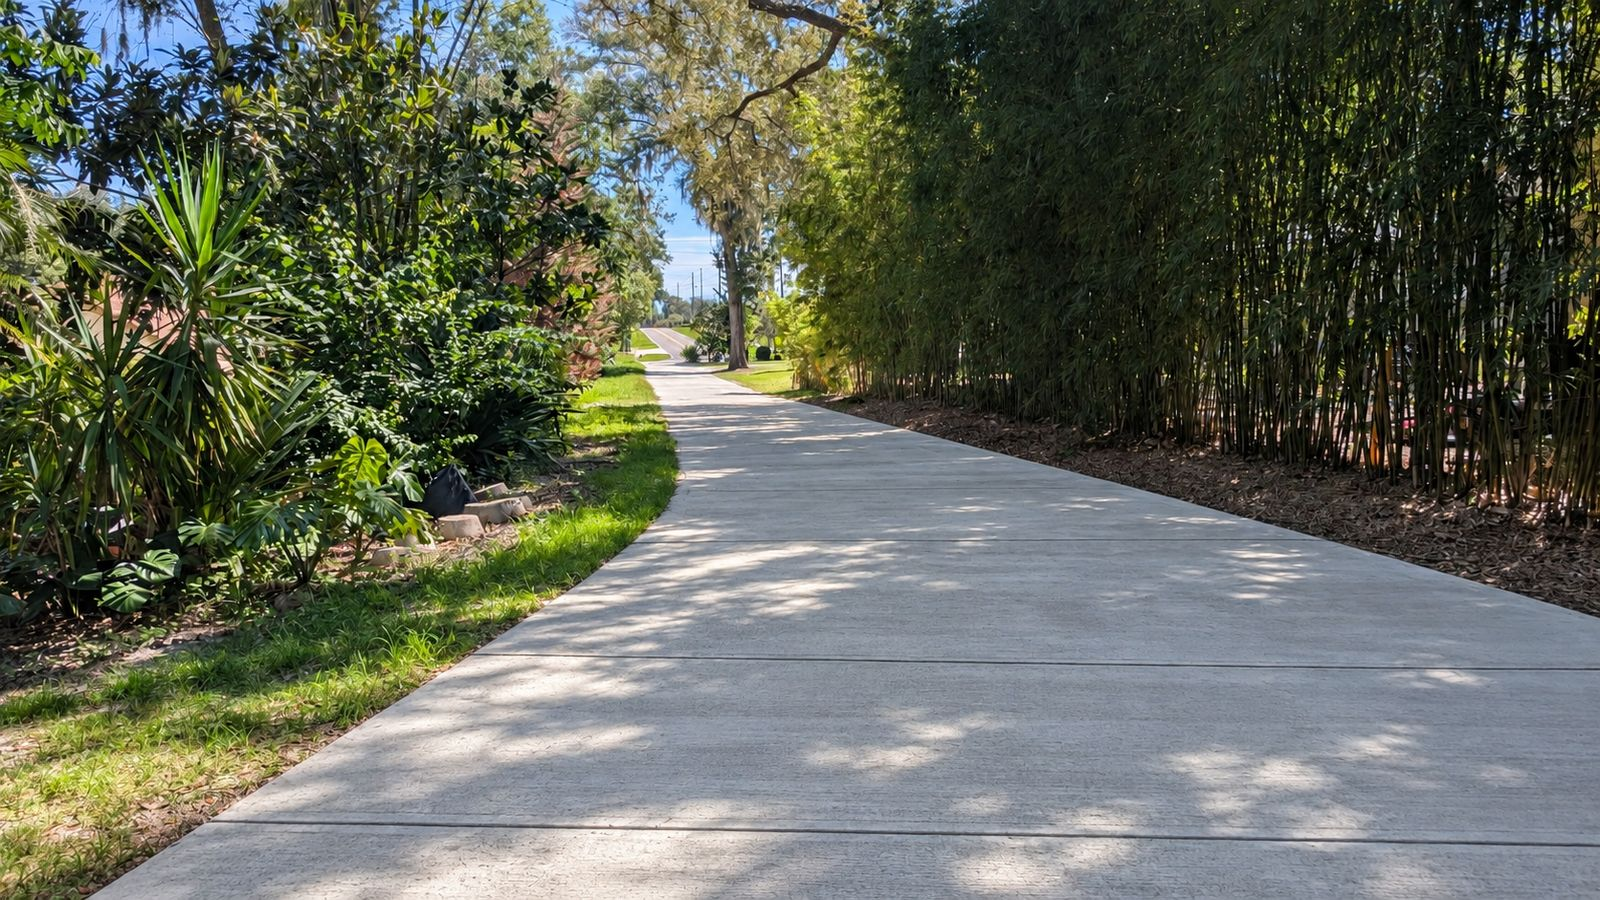
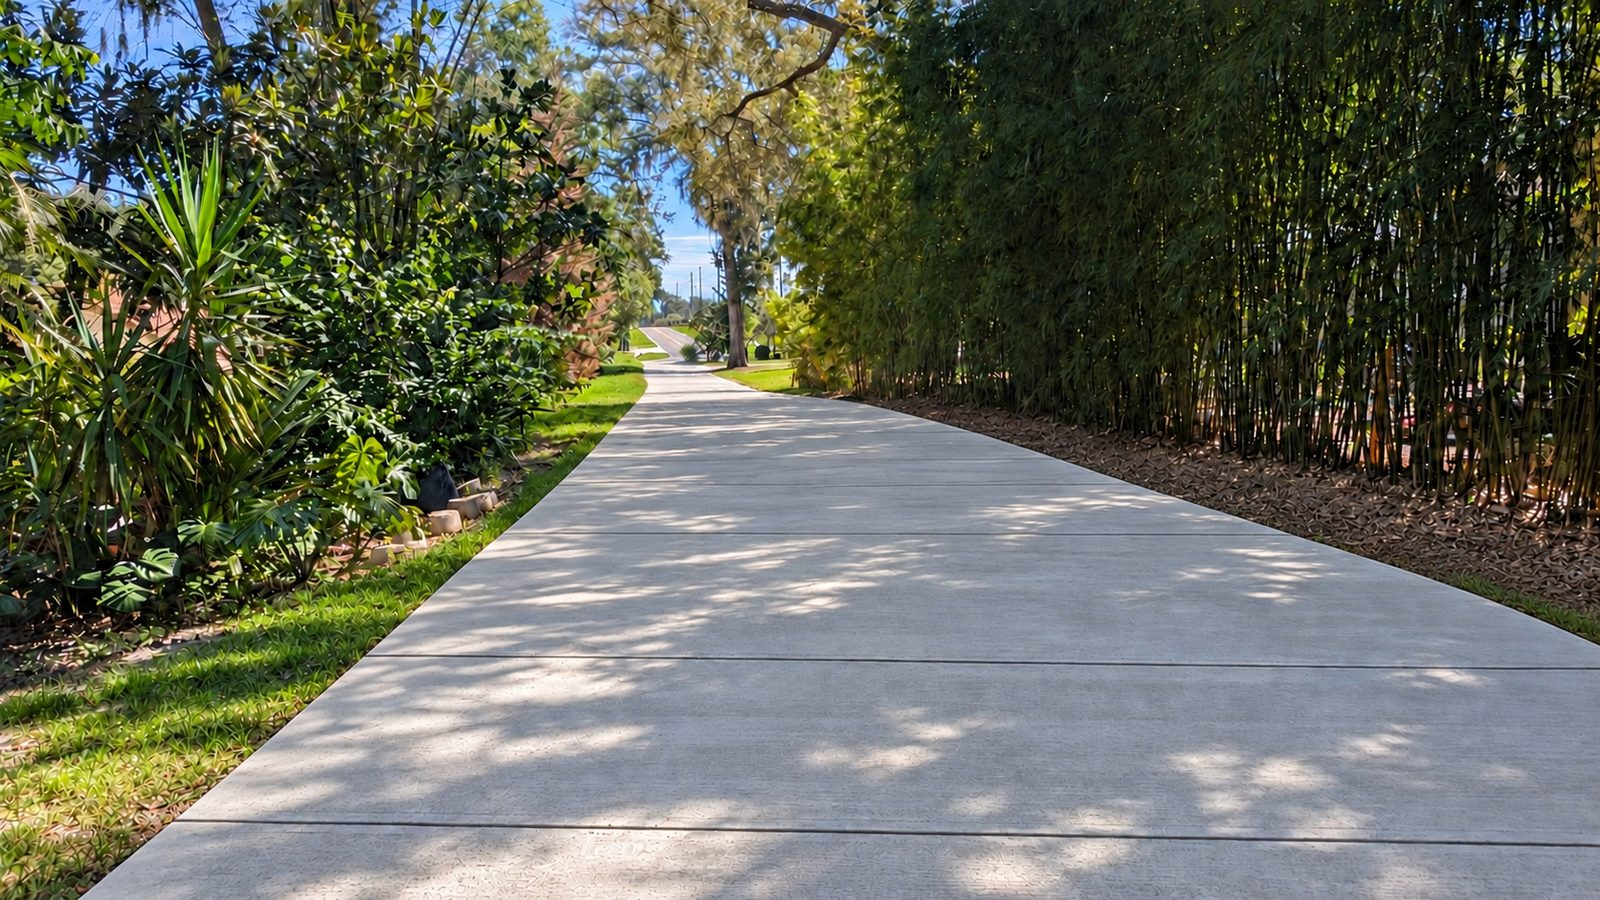
Swap the pull-off for the wide section and show a 16 ft road
Replace the pull-off section (and its photos) with "A wide section",
showing the ground-level and top-down wide-section photos. "The whole
stretch" now uses the new wider-road photo, which lines up with the
existing "today" photo so the slider still works. The width label and
the shared-road note say 16 ft; the cost estimate's area is unchanged.

Uploaded PNGs are resized to 1600x900 JPEGs like the rest of the site
(originals stay in git history).

Claude-Session: https://claude.ai/code/session_01KxngpR1unhE74uWLYUnd1P

diff --git a/index.html b/index.html
@@ -72,18 +72,13 @@ header{display:grid;gap:16px}
 .cmp:has(input:focus-visible){outline:3px solid var(--oak);outline-offset:3px}
 
 .view{display:grid;gap:14px}
-.view-head{display:flex;flex-wrap:wrap;align-items:baseline;justify-content:space-between;gap:6px 16px}
 .view p{color:var(--muted)}
 .gallery{display:grid;gap:48px}
-.opts{display:inline-flex;gap:4px;padding:4px;border:1px solid var(--line);border-radius:6px;background:var(--panel)}
-.opts button{font:600 .95rem var(--display);letter-spacing:.08em;text-transform:uppercase;border:0;background:transparent;color:var(--muted);padding:6px 14px;border-radius:4px;cursor:pointer}
-.opts button[aria-pressed="true"]{background:var(--oak);color:var(--oak-ink)}
-.opts button:focus-visible{outline:2px solid var(--oak);outline-offset:2px}
 
 .hint{font-size:.9rem;color:var(--muted)}
 
-/* road sections + pull-off */
-.road,.pulloff{display:grid;gap:24px}
+/* road sections */
+.road{display:grid;gap:24px}
 img.shot{display:block;width:100%;height:auto;aspect-ratio:16/9;object-fit:cover;border-radius:6px;background:var(--line)}
 
 /* why + split */
@@ -176,7 +171,7 @@ footer{color:var(--muted);font-size:.88rem;border-top:1px solid var(--line);padd
       </article>
       <article class="view">
         <h3>Interior road</h3>
-        <div data-view="interior" data-title="Interior road" data-dim="606 1262 500" data-dim-label="12 ft wide"></div>
+        <div data-view="interior" data-title="Interior road" data-dim="606 1262 500" data-dim-label="16 ft wide"></div>
         <p class="cap">The straight run through the trees, paved edge to edge.</p>
       </article>
     </div>
@@ -218,22 +213,22 @@ footer{color:var(--muted);font-size:.88rem;border-top:1px solid var(--line);padd
     <div data-view="long-road" data-title="The whole stretch"></div>
   </section>
 
-  <section class="pulloff" aria-labelledby="po-h">
+  <section class="road" aria-labelledby="wide-h">
     <div class="split-head">
-      <div class="eyebrow">Pull-off</div>
-      <h2 id="po-h">Room to pass</h2>
-      <p class="muted">The road is about 12 ft wide, room for one car at a time. A pull-off is a short, wider stretch where one car can wait while another goes by. There are two places it could go.</p>
+      <div class="eyebrow">Room to pass</div>
+      <h2 id="wide-h">A wide section</h2>
+      <p class="muted">A stretch where the road widens, with room for two cars side by side.</p>
     </div>
     <div class="gallery">
       <article class="view">
-        <div class="view-head"><h3>From above</h3></div>
-        <img class="shot" src="img/pull-off/overhead.jpg" alt="Overhead view of the concrete road widened into a pull-off, with a pickup truck and an SUV side by side" loading="lazy">
-        <p class="cap">The wider section fits two cars side by side.</p>
+        <h3>Along the road</h3>
+        <img class="shot" src="img/wide-section.jpg" alt="Concrete road widening on both sides into a wide section, with the road to Hempel Ave beyond" loading="lazy">
+        <p class="cap">Looking toward Hempel Ave, the road widens on both sides and then narrows back to the regular lane.</p>
       </article>
-      <article class="view" id="pulloff">
-        <div class="view-head"><h3>Where it could go</h3><div class="opts" role="group" aria-label="Pull-off location"><button type="button" data-k="a" aria-pressed="true">Option A</button><button type="button" data-k="b" aria-pressed="false">Option B</button></div></div>
-        <img class="shot" src="img/pull-off/option-a.jpg" alt="Concrete road near the street, widened on the right into a pull-off" loading="lazy">
-        <p class="cap">By the street, near the Hempel Ave end of the road.</p>
+      <article class="view">
+        <h3>From above</h3>
+        <img class="shot" src="img/wide-section-top.jpg" alt="Overhead view of the wide section with a pickup truck and an SUV side by side" loading="lazy">
+        <p class="cap">The same idea from above, with a pickup and an SUV side by side.</p>
       </article>
     </div>
   </section>
@@ -282,7 +277,7 @@ footer{color:var(--muted);font-size:.88rem;border-top:1px solid var(--line);padd
           <div class="field"><label for="aShared">Shared road (sq ft)</label><input id="aShared" inputmode="numeric" value="4,200" autocomplete="off"></div>
         </div>
         <p class="note"><b>These are estimates, not quotes.</b> $11 per sq ft is the middle of the $10 to $13 Orlando range for 4 inch, fiber reinforced, broom finish concrete. Fixed costs cover things that are paid once per job: mobilization, permit, equipment and a pump truck if needed.</p>
-        <p class="note">Shared road: 335 ft long by about 12 ft wide, plus the apron at Hempel.</p>
+        <p class="note">Shared road: 335 ft long by about 16 ft wide, plus the apron at Hempel.</p>
         <p class="note">The whole cost, fixed costs included, is split by road use. Distances are scaled from the recorded survey of 1830 Hempel and match a Google Maps measurement within a few inches.</p>
       </div>
       <div class="table-wrap">
@@ -360,15 +355,6 @@ document.querySelectorAll("[data-view]").forEach(el=>{
   el.innerHTML=cmpHTML(`img/${v}-before.jpg`,`img/${v}-after.jpg`,el.dataset.title,el.dataset.dim,el.dataset.dimLabel);
   wire(el.querySelector(".cmp"));
 });
-const PULLOFF={a:{text:"By the street, near the Hempel Ave end of the road.",alt:"Concrete road near the street, widened on the right into a pull-off"},
-  b:{text:"By 1820, farther in from the street.",alt:"Concrete road near 1820, widened on the left into a pull-off"}};
-const po=document.getElementById("pulloff");
-po.querySelectorAll(".opts button").forEach(b=>b.addEventListener("click",()=>{
-  const k=b.dataset.k,img=po.querySelector("img");
-  img.src=`img/pull-off/option-${k}.jpg`;img.alt=PULLOFF[k].alt;
-  po.querySelector(".cap").textContent=PULLOFF[k].text;
-  po.querySelectorAll(".opts button").forEach(x=>x.setAttribute("aria-pressed",x===b));
-}));
 const LOTS={"1830":[[7,561],[427,564],[430,433],[764,436],[764,420],[361,417],[358,433],[10,430]],"1820":[[427,564],[761,564],[764,436],[430,433]],"1812":[[0,719],[456,728],[459,584],[758,584],[761,564],[427,564],[7,561]],"1922":[[10,430],[358,433],[361,417],[764,420],[764,407],[430,404],[433,305],[121,305],[10,410]],"1930":[[430,404],[764,407],[768,276],[433,272],[433,305]],"1942":[[121,305],[433,305],[433,272],[436,141],[771,144],[771,131],[436,128],[440,0]]};
 const HH=[{id:"1830",addr:"1830 Hempel",c:"--h1830"},{id:"1922",addr:"1922 Hempel",c:"--h1922"},{id:"1820",addr:"1820 Hempel",c:"--h1820"},{id:"1930",addr:"1930 Hempel",c:"--h1930"}];
 const HEMPEL=764, Y0=580, fy=y=>Y0-y, NS="http://www.w3.org/2000/svg";
